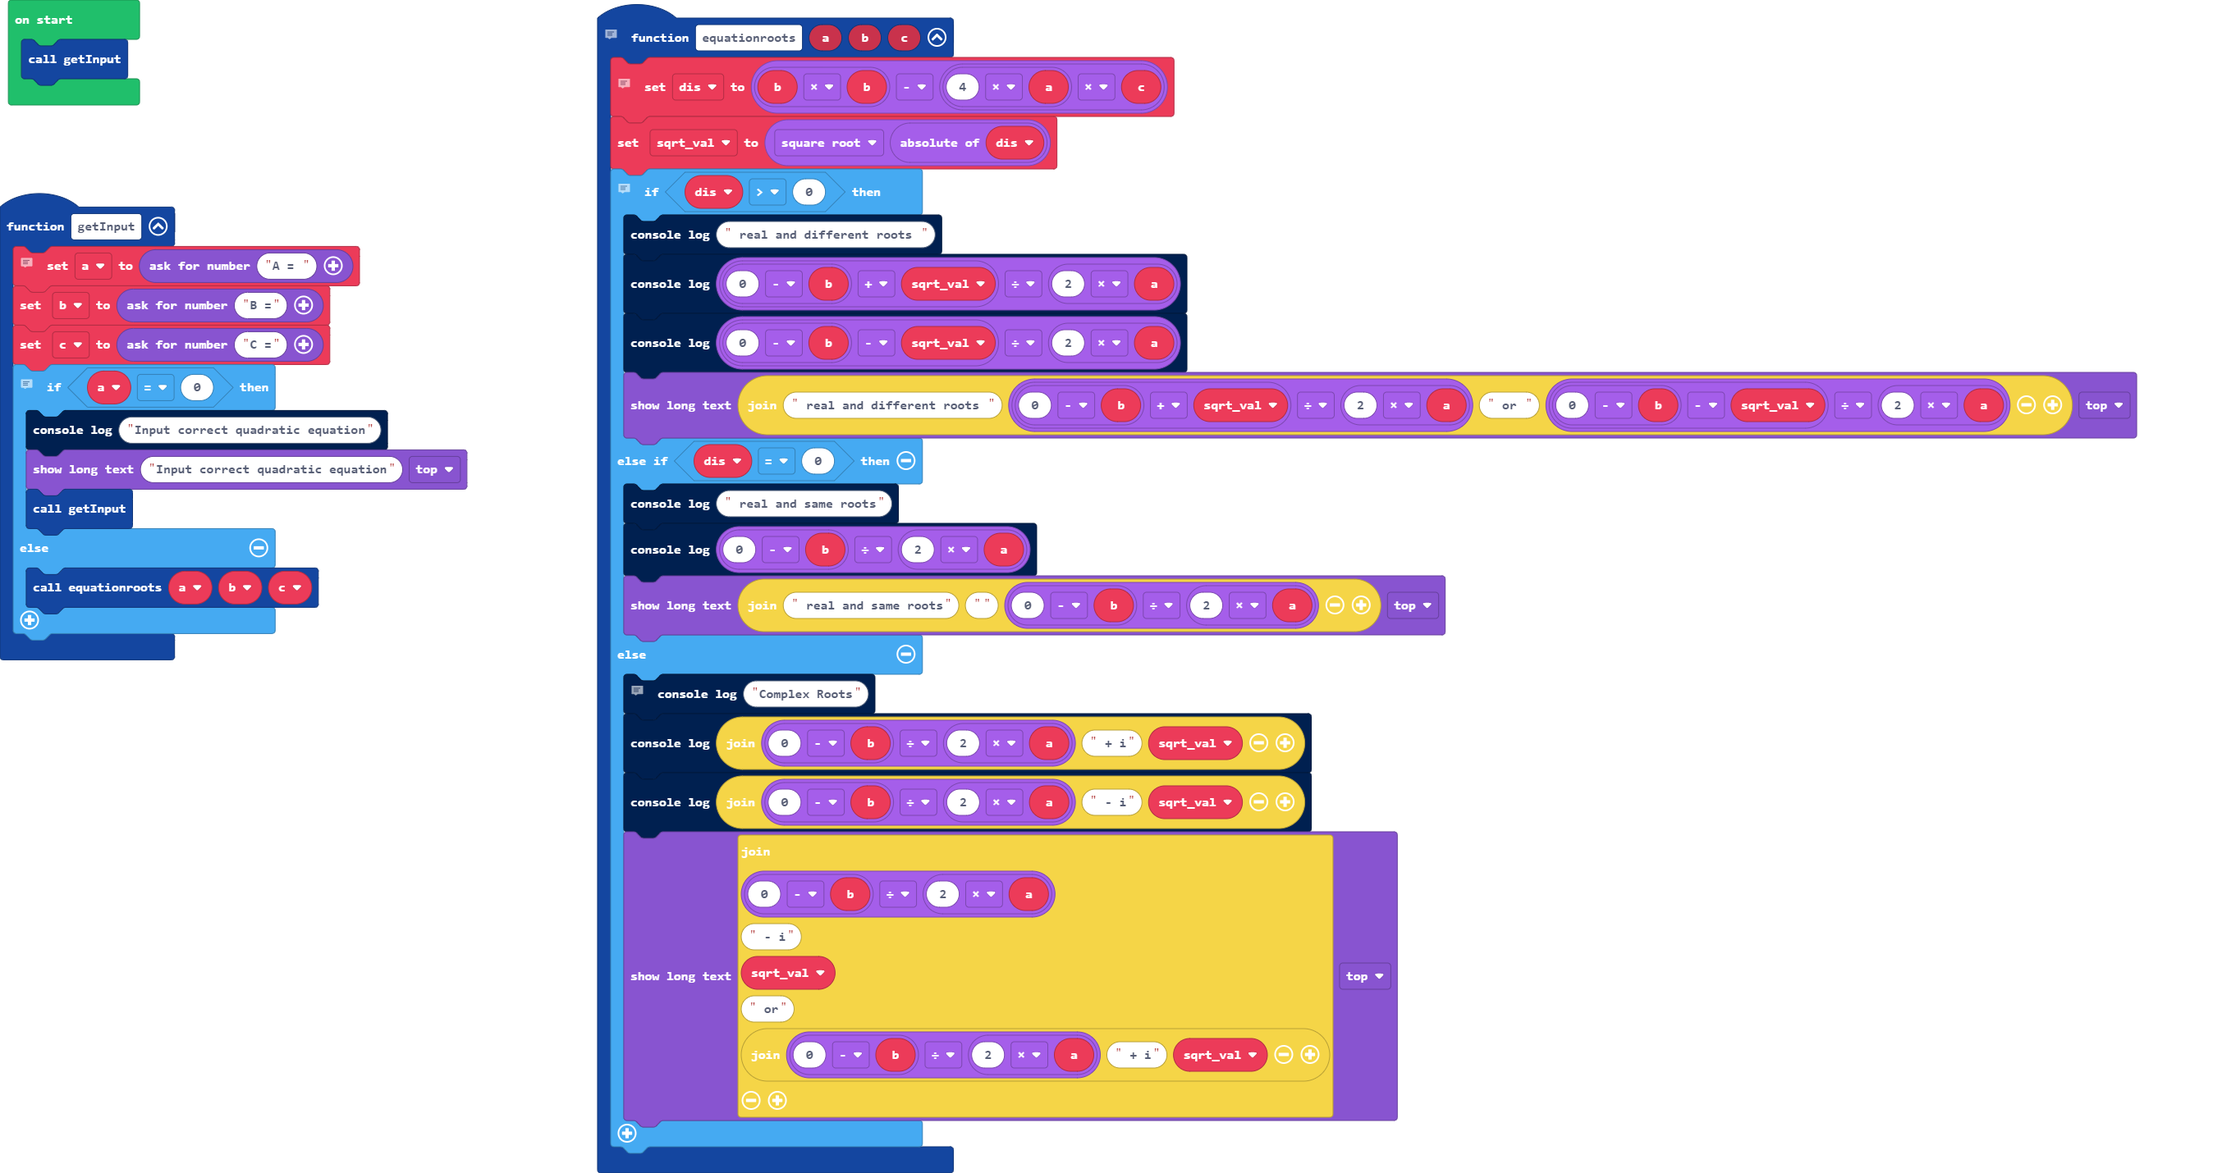
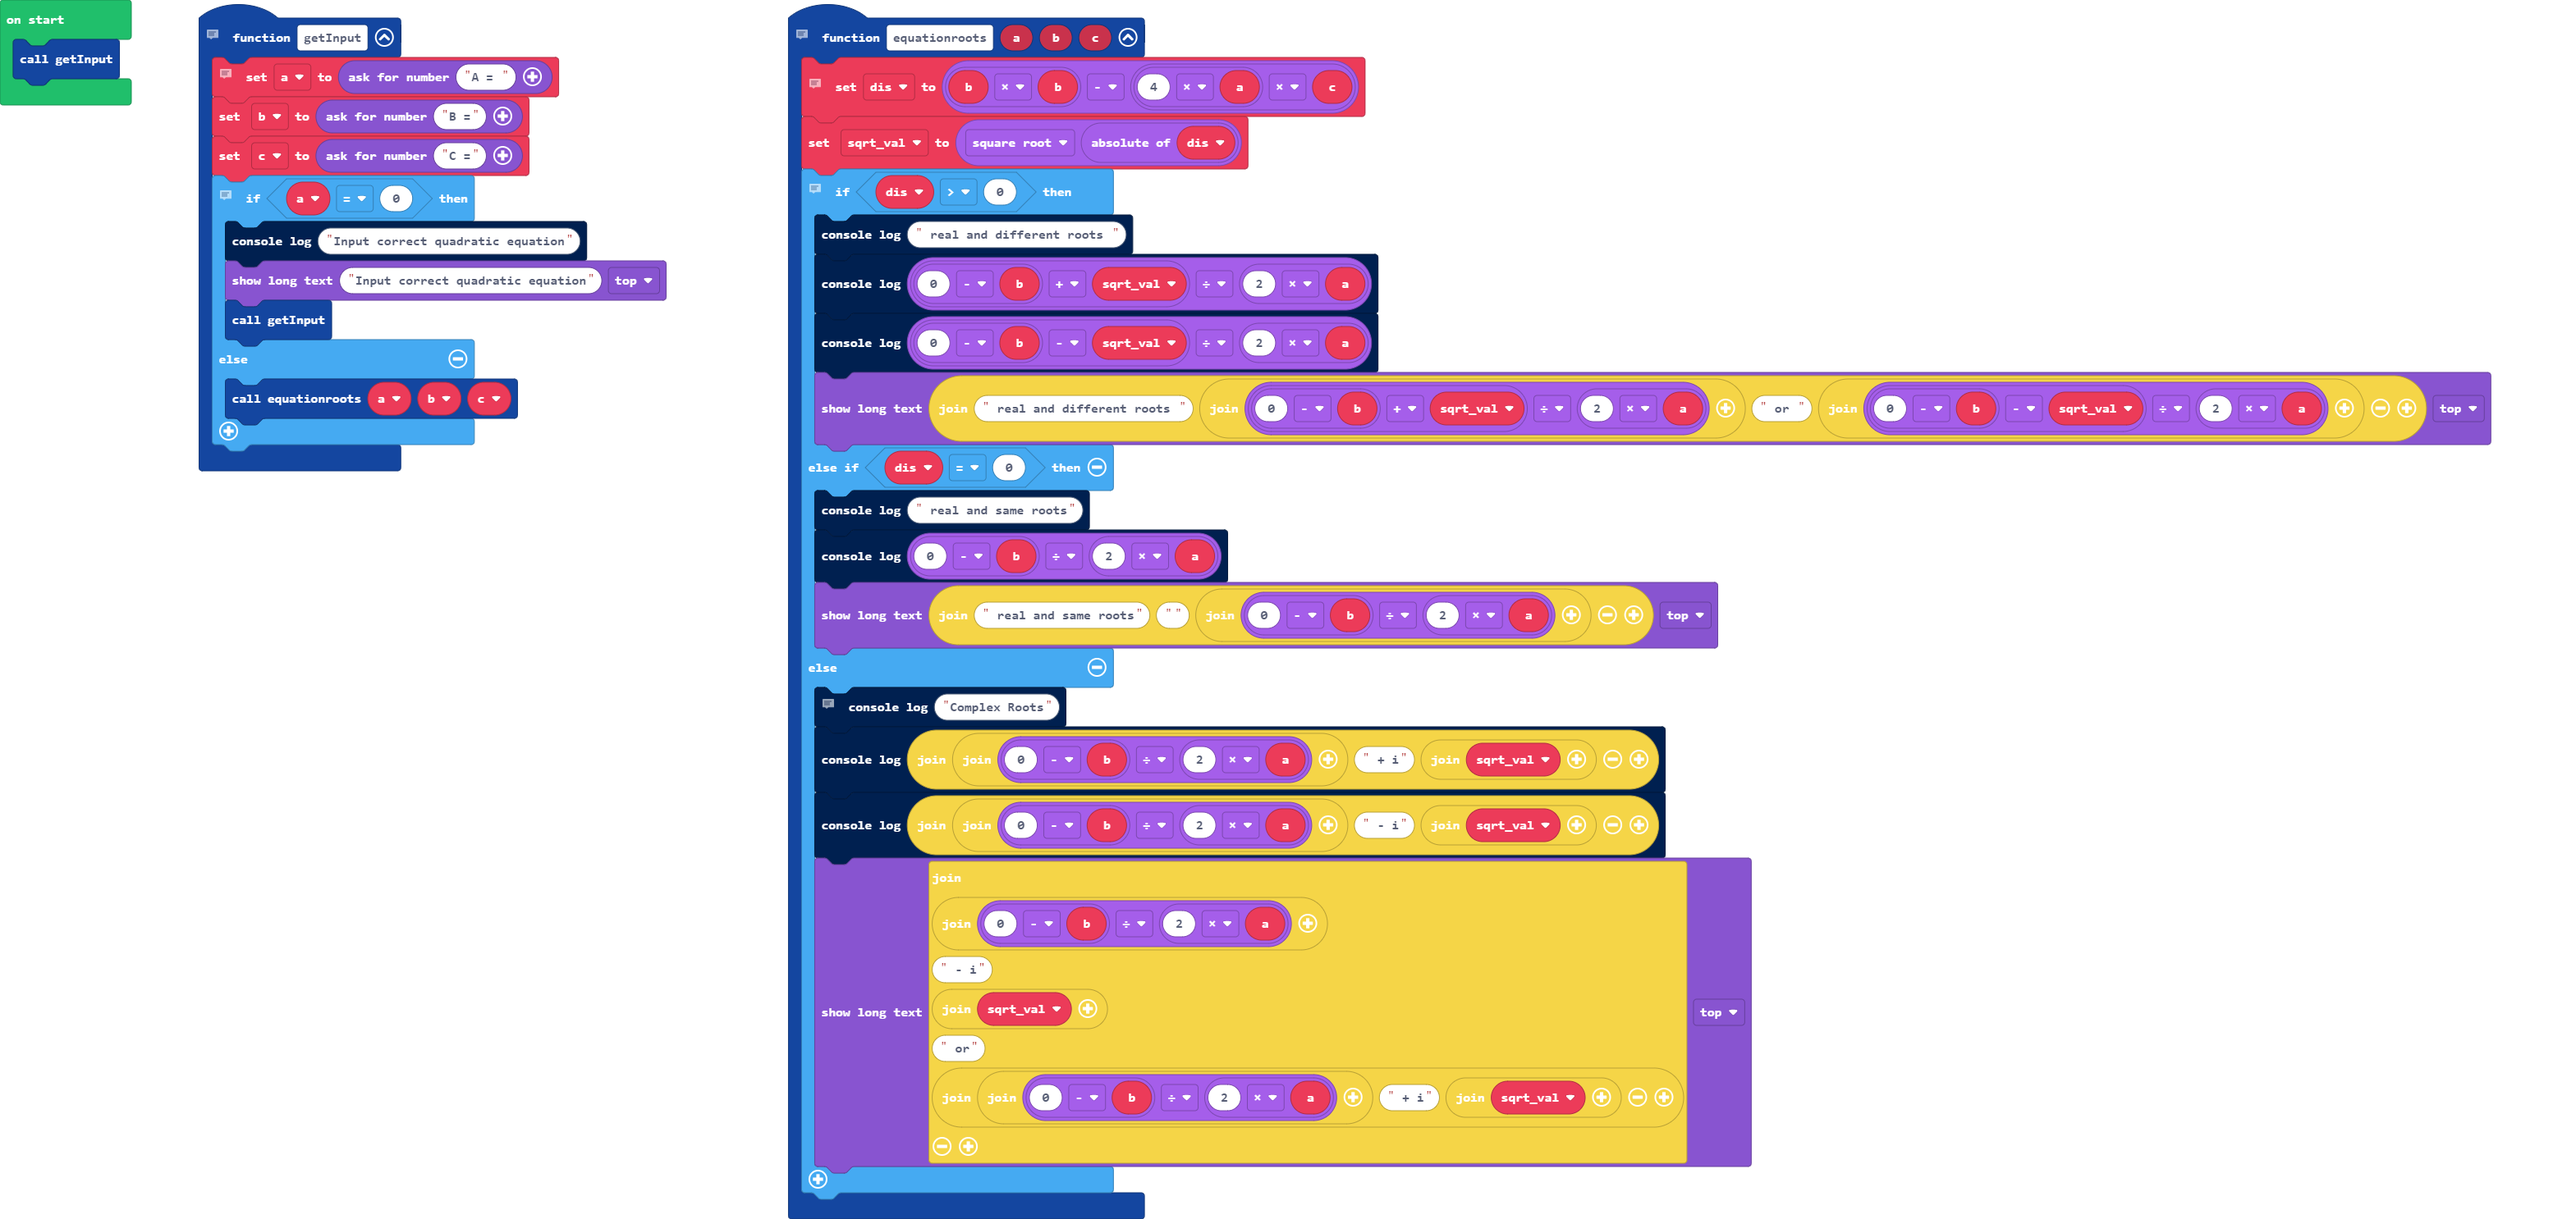
Update main.blocks, main.ts, main.py

diff --git a/main.ts b/main.ts
@@ -1,3 +1,4 @@
+// Adpated from https://www.geeksforgeeks.org/python-program-to-solve-quadratic-equation/
 function getInput () {
     // Driver Program
     a = game.askForNumber("A = ")
@@ -22,17 +23,17 @@ function equationroots (a: number, b: number, c: number) {
         console.log(" real and different roots ")
         console.log((0 - b + sqrt_val) / (2 * a))
         console.log((0 - b - sqrt_val) / (2 * a))
-        game.showLongText(" real and different roots " + (0 - b + sqrt_val) / (2 * a) + " or " + (0 - b - sqrt_val) / (2 * a), DialogLayout.Top)
+        game.showLongText(" real and different roots " + ("" + (0 - b + sqrt_val) / (2 * a)) + " or " + ("" + (0 - b - sqrt_val) / (2 * a)), DialogLayout.Top)
     } else if (dis == 0) {
         console.log(" real and same roots")
         console.log((0 - b) / (2 * a))
-        game.showLongText(" real and same roots" + "" + (0 - b) / (2 * a), DialogLayout.Top)
+        game.showLongText(" real and same roots" + "" + ("" + (0 - b) / (2 * a)), DialogLayout.Top)
     } else {
         // when discriminant is less than 0
         console.log("Complex Roots")
-        console.log("" + (0 - b) / (2 * a) + " + i" + sqrt_val)
-        console.log("" + (0 - b) / (2 * a) + " - i" + sqrt_val)
-        game.showLongText("" + (0 - b) / (2 * a) + " - i" + sqrt_val + " or" + ("" + (0 - b) / (2 * a) + " + i" + sqrt_val), DialogLayout.Top)
+        console.log("" + (0 - b) / (2 * a) + " + i" + ("" + sqrt_val))
+        console.log("" + (0 - b) / (2 * a) + " - i" + ("" + sqrt_val))
+        game.showLongText("" + (0 - b) / (2 * a) + " - i" + ("" + sqrt_val) + " or" + ("" + (0 - b) / (2 * a) + " + i" + ("" + sqrt_val)), DialogLayout.Top)
     }
 }
 let sqrt_val = 0

diff --git a/main.py b/main.py
@@ -1,3 +1,18 @@
+# Adpated from https://www.geeksforgeeks.org/python-program-to-solve-quadratic-equation/
+
+def getInput():
+    global a, b, c
+    # Driver Program
+    a = game.ask_for_number("A = ")
+    b = game.ask_for_number("B =")
+    c = game.ask_for_number("C =")
+    # If a is 0, then incorrect equation
+    if a == 0:
+        print("Input correct quadratic equation")
+        game.show_long_text("Input correct quadratic equation", DialogLayout.TOP)
+        getInput()
+    else:
+        equationroots(a, b, c)
 # function for finding roots
 def equationroots(a: number, b: number, c: number):
     global dis, sqrt_val
@@ -9,25 +24,23 @@ def equationroots(a: number, b: number, c: number):
         print(" real and different roots ")
         print((0 - b + sqrt_val) / (2 * a))
         print((0 - b - sqrt_val) / (2 * a))
+        game.show_long_text(" real and different roots " + str((0 - b + sqrt_val) / (2 * a)) + " or " + str((0 - b - sqrt_val) / (2 * a)),
+            DialogLayout.TOP)
     elif dis == 0:
         print(" real and same roots")
         print((0 - b) / (2 * a))
-            # when discriminant is less than 0 
+        game.show_long_text(" real and same roots" + "" + str((0 - b) / (2 * a)),
+            DialogLayout.TOP)
     else:
+        # when discriminant is less than 0
         print("Complex Roots")
-        print(- b / (2 * a) + " + i" + sqrt_val)  
-        print(- b / (2 * a) + " - i" + sqrt_val)
+        print("" + str((0 - b) / (2 * a)) + " + i" + str(sqrt_val))
+        print("" + str((0 - b) / (2 * a)) + " - i" + str(sqrt_val))
+        game.show_long_text("" + str((0 - b) / (2 * a)) + " - i" + str(sqrt_val) + " or" + ("" + str((0 - b) / (2 * a)) + " + i" + str(sqrt_val)),
+            DialogLayout.TOP)
 sqrt_val = 0
 dis = 0
-# Driver Program
-a = game.ask_for_number("A = ")
-b = game.ask_for_number("B =")
-c = game.ask_for_number("C =")
-# If a is 0, then incorrect equation
-if a == 0:
-    print("Input correct quadratic equation")
-else:
-    equationroots(a, b, c)
-
-
-
+c = 0
+b = 0
+a = 0
+getInput()
